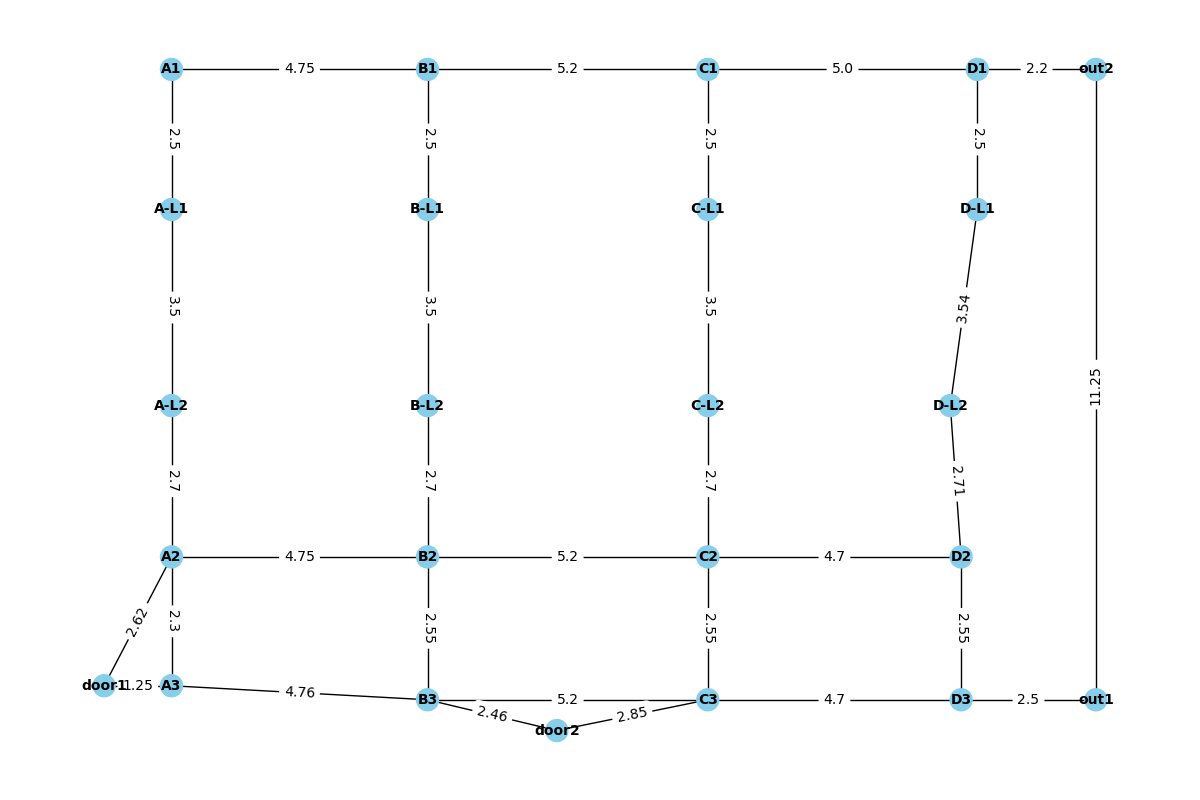
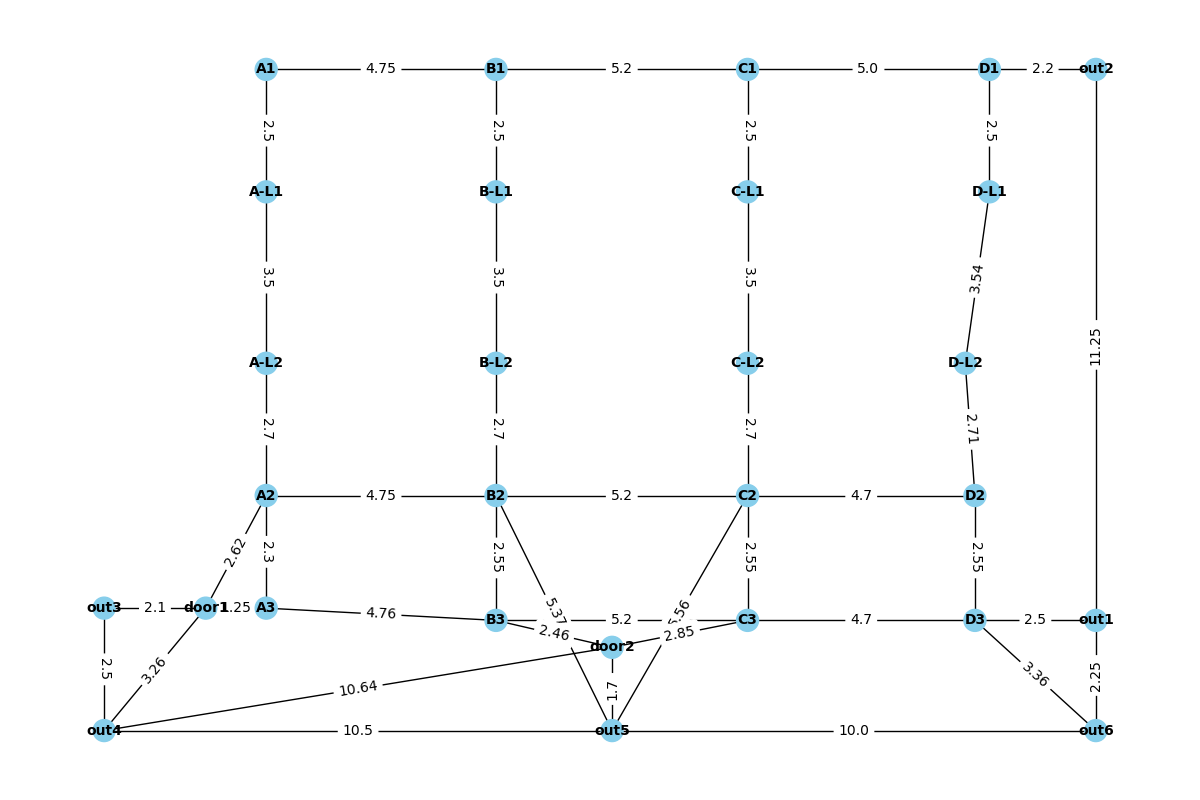
graph updated with new "out" nodes

diff --git a/HRISim_docker/src/HRISim/hrisim_util/src/hrisim_util/constants.py b/HRISim_docker/src/HRISim/hrisim_util/src/hrisim_util/constants.py
@@ -14,33 +14,33 @@ class TOD(Enum):
 TODS = {t.value: i for i, t in enumerate(TOD)}
 
 class WP(Enum):
-    ROOM1 = "r1"
-    ROOM2 = "r2"
-    CORRIDOR1 = "c1"
-    CORRIDOR2 = "c2"
-    CORRIDOR3 = "c3"
-    CORRIDOR4 = "c4"
-    CORRIDOR5 = "c5"
-    CORRIDOR6 = "c6"
-    CORRIDOR7 = "c7"
-    CORRIDOR8 = "c8"
-    CORRIDOR9 = "c9"
-    CORRIDOR10 = "c10"
-    CORRIDOR11 = "c11"
-    CORRIDOR12 = "c12"
-    CORRIDOR13 = "c13"
-    CORRIDOR14 = "c14"
-    CORRIDOR15 = "c15"
-    CORRIDOR16 = "c16"
-    CORRIDOR17 = "c17"
-    CORRIDOR18 = "c18"
-    CORRIDOR19 = "c19"
-    CORRIDOR20 = "c20"
-    CORRIDOR21 = "c21"
-    CORRIDOR22 = "c22"
-    CORRIDOR23 = "c23"
-    CORRIDOR24 = "c24"
-    CORRIDOR25 = "c25"
-    CORRIDOR26 = "c26"
+    A1 = "A1"
+    B1 = "B1"
+    C1 = "C1"
+    D1 = "D1"
+    A_L1 = "A-L1"
+    A_L2 = "A-L2"
+    B_L1 = "B-L1"
+    B_L2 = "B-L2"
+    C_L1 = "C-L1"
+    C_L2 = "C-L2"
+    D_L1 = "D-L1"
+    D_L2 = "D-L2"
+    A2 = "A2"
+    B2 = "B2"
+    C2 = "C2"
+    D2 = "D2"
+    A3 = "A3"
+    B3 = "B3"
+    C3 = "C3"
+    D3 = "D3"
+    DOOR1 = "door1"
+    DOOR2 = "door2"
+    OUT1 = "out1"
+    OUT2 = "out2"
+    OUT3 = "out3"
+    OUT4 = "out4"
+    OUT5 = "out5"
+    OUT6 = "out6"
 
 WPS = {wp.value: i for i, wp in enumerate(WP)}

diff --git a/HRISim_docker/src/HRISim/peopleflow/peopleflow_manager/hardcoded/constants.py b/HRISim_docker/src/HRISim/peopleflow/peopleflow_manager/hardcoded/constants.py
@@ -14,33 +14,33 @@ class TOD(Enum):
 TODS = {t.value: i for i, t in enumerate(TOD)}
 
 class WP(Enum):
-    ROOM1 = "r1"
-    ROOM2 = "r2"
-    CORRIDOR1 = "c1"
-    CORRIDOR2 = "c2"
-    CORRIDOR3 = "c3"
-    CORRIDOR4 = "c4"
-    CORRIDOR5 = "c5"
-    CORRIDOR6 = "c6"
-    CORRIDOR7 = "c7"
-    CORRIDOR8 = "c8"
-    CORRIDOR9 = "c9"
-    CORRIDOR10 = "c10"
-    CORRIDOR11 = "c11"
-    CORRIDOR12 = "c12"
-    CORRIDOR13 = "c13"
-    CORRIDOR14 = "c14"
-    CORRIDOR15 = "c15"
-    CORRIDOR16 = "c16"
-    CORRIDOR17 = "c17"
-    CORRIDOR18 = "c18"
-    CORRIDOR19 = "c19"
-    CORRIDOR20 = "c20"
-    CORRIDOR21 = "c21"
-    CORRIDOR22 = "c22"
-    CORRIDOR23 = "c23"
-    CORRIDOR24 = "c24"
-    CORRIDOR25 = "c25"
-    CORRIDOR26 = "c26"
+    A1 = "A1"
+    B1 = "B1"
+    C1 = "C1"
+    D1 = "D1"
+    A_L1 = "A-L1"
+    A_L2 = "A-L2"
+    B_L1 = "B-L1"
+    B_L2 = "B-L2"
+    C_L1 = "C-L1"
+    C_L2 = "C-L2"
+    D_L1 = "D-L1"
+    D_L2 = "D-L2"
+    A2 = "A2"
+    B2 = "B2"
+    C2 = "C2"
+    D2 = "D2"
+    A3 = "A3"
+    B3 = "B3"
+    C3 = "C3"
+    D3 = "D3"
+    DOOR1 = "door1"
+    DOOR2 = "door2"
+    OUT1 = "out1"
+    OUT2 = "out2"
+    OUT3 = "out3"
+    OUT4 = "out4"
+    OUT5 = "out5"
+    OUT6 = "out6"
 
 WPS = {wp.value: i for i, wp in enumerate(WP)}
